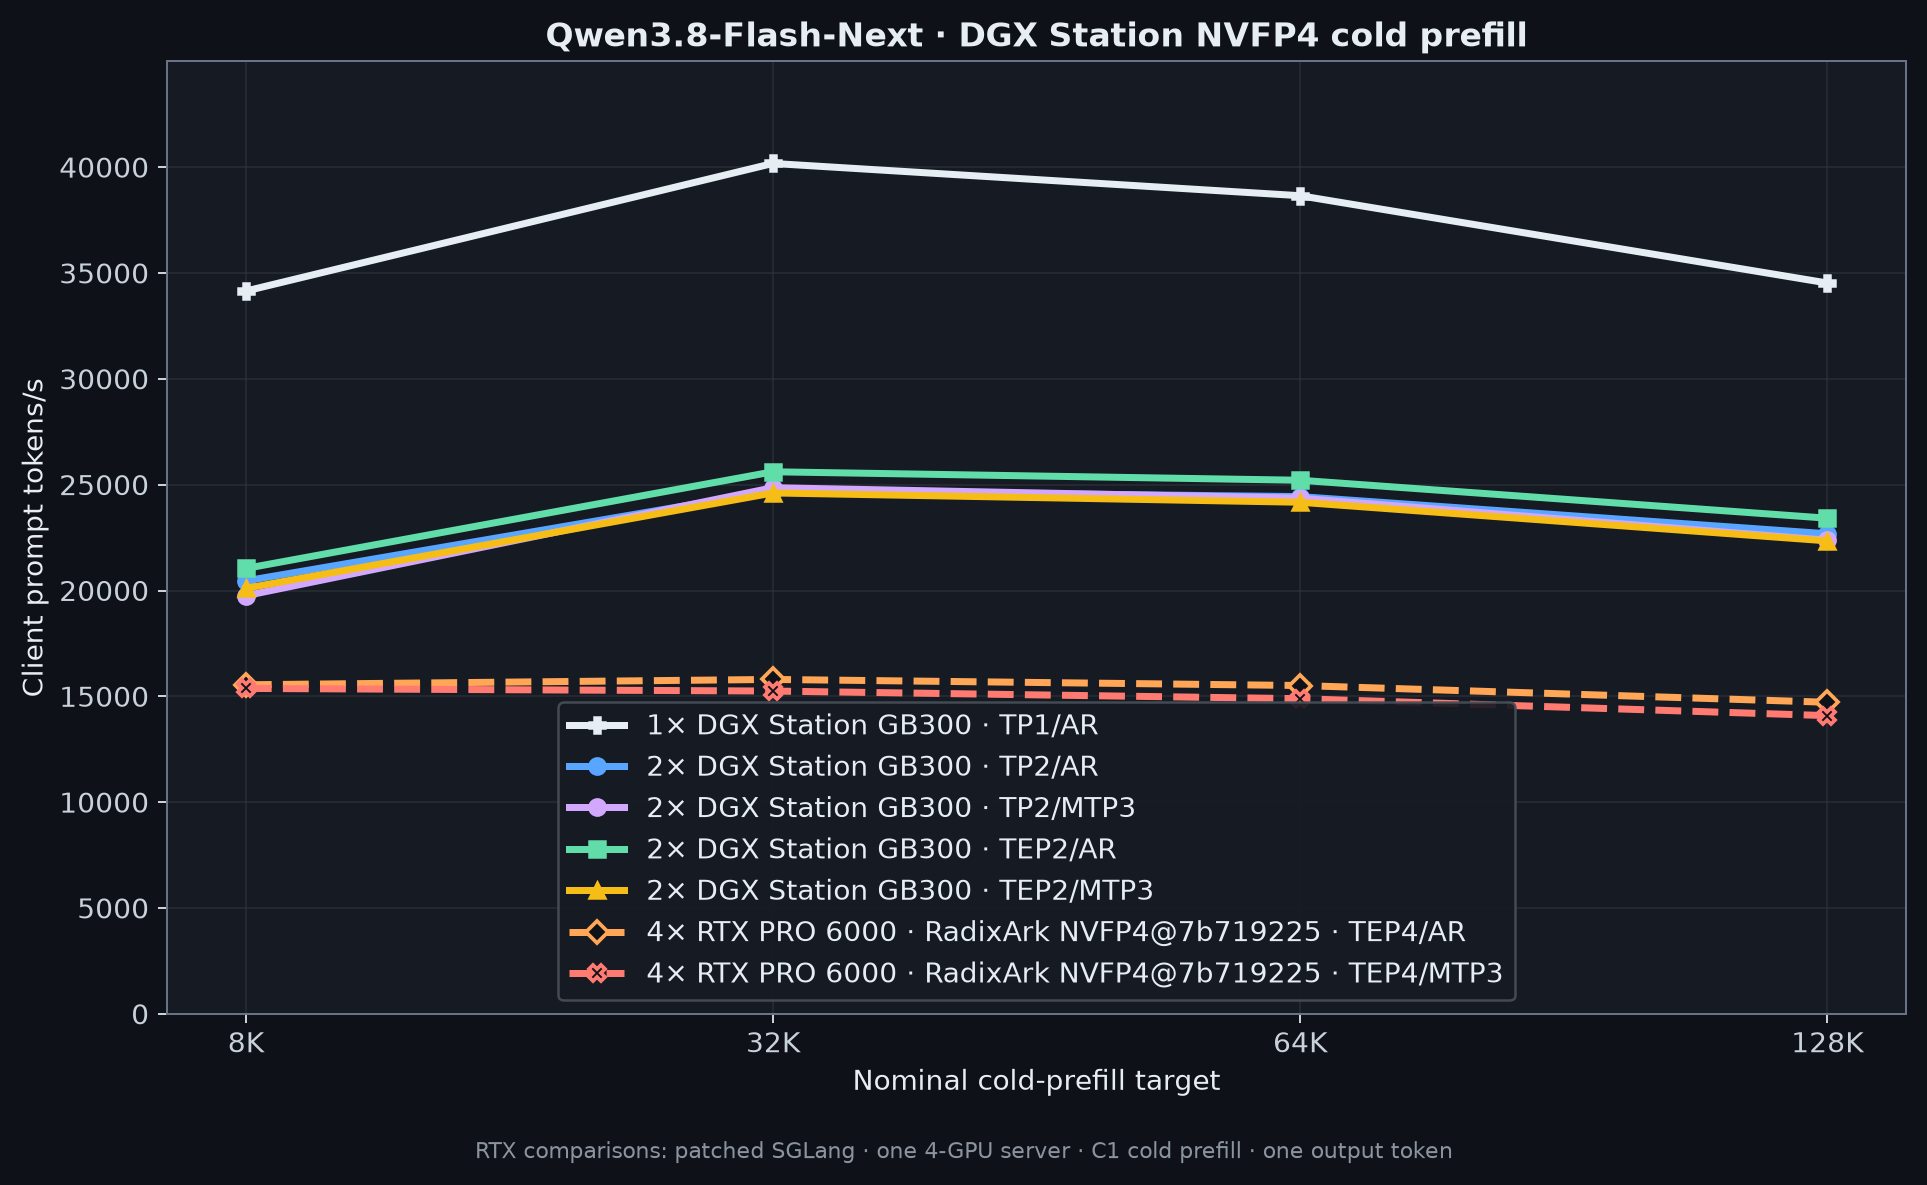
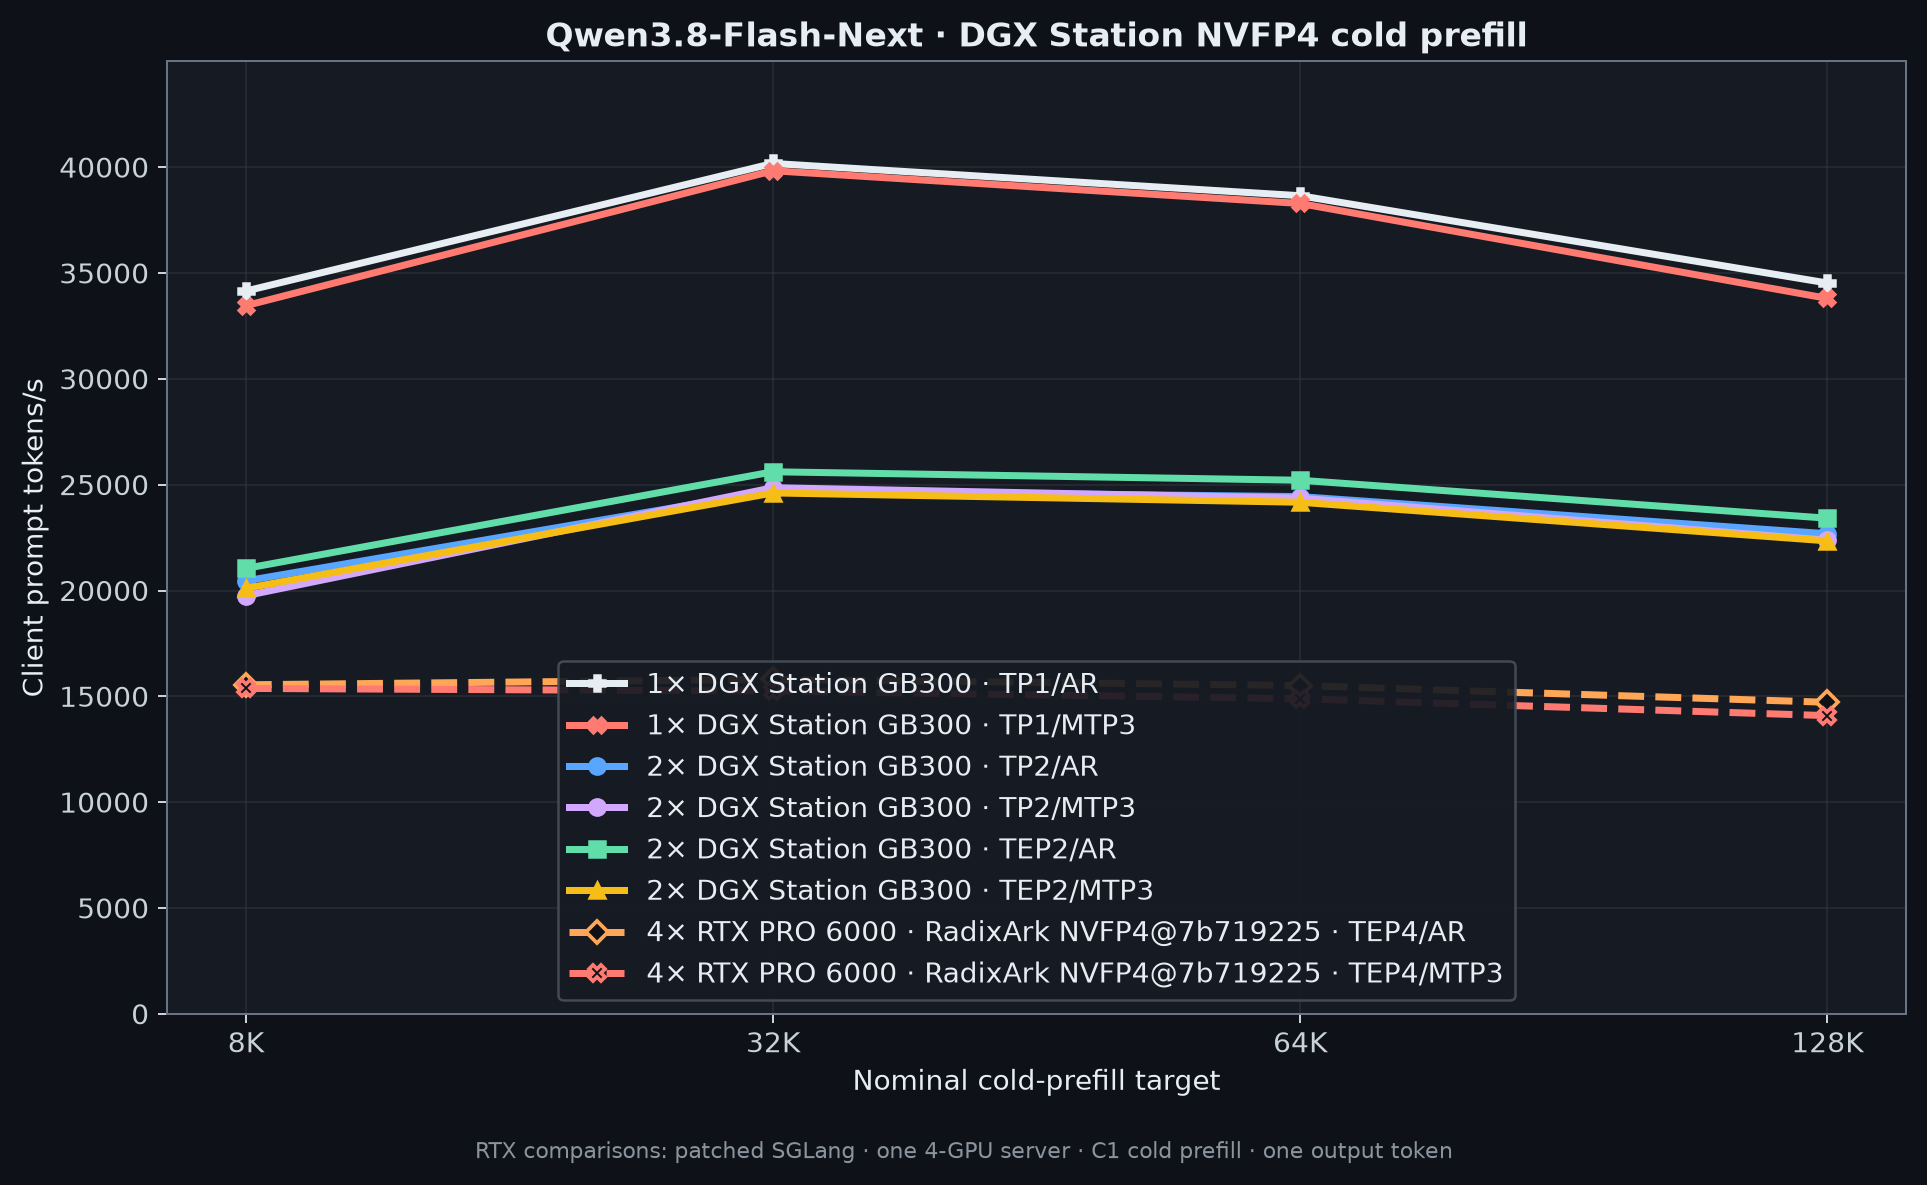
Add Qwen TP1 MTP3 headline results

diff --git a/qwen3.8-flash-next/tests/test_section_contract.py b/qwen3.8-flash-next/tests/test_section_contract.py
@@ -35,6 +35,11 @@ DGX_PROFILE_SPECS = {
         {"DGX Station"},
         0,
     ),
+    "NVFP4 TP1/MTP3": (
+        {"single_node_tp1_ep_disabled"},
+        {"DGX Station"},
+        3,
+    ),
     "NVFP4 TP2/MTP0": (
         {"cross_node_tp2_ep_disabled"},
         {"DGX Station pair"},
@@ -262,6 +267,7 @@ class SectionContractTests(unittest.TestCase):
             tuple(renderer.DGX_HEADLINE_SERIES),
             (
                 "NVFP4 TP1/MTP0",
+                "NVFP4 TP1/MTP3",
                 "NVFP4 TP2/MTP0",
                 "NVFP4 TP2/MTP3",
                 "NVFP4 TEP2/MTP0",
@@ -413,16 +419,16 @@ class SectionContractTests(unittest.TestCase):
             for row in prefill_rows
         }
         self.assertIn("local-inference-lab/Qwen3.8-Flash-Next-NVFP4-4p89", section)
-        self.assertIn("TP1/AR uses one Station", section)
-        self.assertIn("TP2 and\nTEP2 span both Stations", section)
-        self.assertIn("comparison points, not DGX Station", section)
+        self.assertIn("TP1/AR and TP1/MTP3 each use one\nStation", section)
+        self.assertIn("TP2 and TEP2 span both Stations", section)
+        self.assertIn("comparison points, not DGX\nStation", section)
         self.assertIn(
             "RadixArk/Qwen3.8-Flash-Next-NVFP4@"
             "7b719225242aacd3dbd3f9407468c2ee9a9d2594",
             section,
         )
         self.assertIn("one TEP4 server across four RTX PRO 6000", section)
-        self.assertIn("Fixed decode is 8,192 input + 1,024 output tokens", section)
+        self.assertIn("Fixed decode is 8,192 input + 1,024 output\ntokens", section)
         self.assertIn("temperature 0, shown from C1 through C64", section)
         headline = section.split("Exact checkpoint revisions", 1)[0]
         self.assertNotIn("source-sealed", headline.lower())
@@ -431,6 +437,7 @@ class SectionContractTests(unittest.TestCase):
         dgx_rows = csv_rows("dgx-overlays.csv")
         profile_labels = {
             "NVFP4 TP1/MTP0": "1× DGX Station · TP1/AR",
+            "NVFP4 TP1/MTP3": "1× DGX Station · TP1/MTP3",
             "NVFP4 TP2/MTP0": "2× DGX Stations · TP2/AR",
             "NVFP4 TP2/MTP3": "2× DGX Stations · TP2/MTP3",
             "NVFP4 TEP2/MTP0": "2× DGX Stations · TEP2/AR",
@@ -497,7 +504,7 @@ class SectionContractTests(unittest.TestCase):
         )
         self.assertIn("(qwen3.8-flash-next/)", overview_row)
         self.assertIn(
-            "1× TP1/AR: 202.1 tok/s C1, 4,090.4 C64, 38,653 tok/s 64K prefill",
+            "1× TP1/MTP3: 342.7 tok/s C1; TP1/AR: 4,090.4 C64, 38,653 tok/s 64K prefill",
             overview_row,
         )
         self.assertIn(
@@ -579,7 +586,7 @@ class SectionContractTests(unittest.TestCase):
         profiles = {row["profile"] for row in rows}
         self.assertTrue(profiles <= set(DGX_PROFILE_SPECS))
         if profiles == set(DGX_PROFILE_SPECS):
-            self.assertLessEqual(len(rows), 55)
+            self.assertEqual(len(rows), 66)
         decode_rows = [row for row in rows if row["metric"] == "decode"]
         prefill_rows = [row for row in rows if row["metric"] == "prefill"]
         decode_keys = {

diff --git a/qwen3.8-flash-next/tests/test_import_dgx_results.py b/qwen3.8-flash-next/tests/test_import_dgx_results.py
@@ -168,7 +168,7 @@ class ImportDgxResultsTests(unittest.TestCase):
             with self.assertRaisesRegex(ValueError, "benchmark client has not completed"):
                 IMPORTER.import_result(root, require_complete=True)
 
-    def test_complete_five_profile_import_has_55_rows(self) -> None:
+    def test_complete_six_profile_import_has_66_rows(self) -> None:
         with tempfile.TemporaryDirectory() as directory:
             parent = Path(directory)
             imported = {}
@@ -180,9 +180,9 @@ class ImportDgxResultsTests(unittest.TestCase):
                 imported[imported_profile] = rows
         merged = IMPORTER.merge_rows([], imported)
         self.assertEqual(set(imported), set(IMPORTER.PROFILE_SPECS))
-        self.assertEqual(len(merged), 55)
-        self.assertEqual(len([row for row in merged if row["metric"] == "decode"]), 35)
-        self.assertEqual(len([row for row in merged if row["metric"] == "prefill"]), 20)
+        self.assertEqual(len(merged), 66)
+        self.assertEqual(len([row for row in merged if row["metric"] == "decode"]), 42)
+        self.assertEqual(len([row for row in merged if row["metric"] == "prefill"]), 24)
 
     def test_tp1_profile_is_labeled_as_one_station(self) -> None:
         with tempfile.TemporaryDirectory() as directory:
@@ -195,6 +195,14 @@ class ImportDgxResultsTests(unittest.TestCase):
             {"single_node_tp1_ep_disabled"},
         )
         self.assertEqual({row["notes"] for row in rows}, {"one_engine_on_one_station"})
+
+    def test_tp1_mtp3_profile_is_labeled_as_one_station(self) -> None:
+        with tempfile.TemporaryDirectory() as directory:
+            root = make_result(Path(directory), "tp1-mtp3")
+            profile, rows = IMPORTER.import_result(root, require_complete=True)
+        self.assertEqual(profile, "tp1-mtp3")
+        self.assertEqual({row["platform_label"] for row in rows}, {"DGX Station"})
+        self.assertEqual({row["mtp_tokens"] for row in rows}, {"3"})
 
     def test_first_new_import_drops_the_superseded_checkpoint(self) -> None:
         with tempfile.TemporaryDirectory() as directory:

diff --git a/qwen3.8-flash-next/charts/render-charts.py b/qwen3.8-flash-next/charts/render-charts.py
@@ -44,6 +44,12 @@ DGX_HEADLINE_SERIES = {
         "-",
         "P",
     ),
+    "NVFP4 TP1/MTP3": (
+        "1× DGX Station GB300 · TP1/MTP3",
+        "#FF7B72",
+        "-",
+        "X",
+    ),
     "NVFP4 TP2/MTP0": (
         "2× DGX Station GB300 · TP2/AR",
         "#58A6FF",
@@ -71,6 +77,7 @@ DGX_HEADLINE_SERIES = {
 }
 DGX_HEADLINE_PLATFORMS = {
     "NVFP4 TP1/MTP0": "DGX Station",
+    "NVFP4 TP1/MTP3": "DGX Station",
     "NVFP4 TP2/MTP0": "DGX Station pair",
     "NVFP4 TP2/MTP3": "DGX Station pair",
     "NVFP4 TEP2/MTP0": "DGX Station pair",

diff --git a/qwen3.8-flash-next/data/import-dgx-results.py b/qwen3.8-flash-next/data/import-dgx-results.py
@@ -89,6 +89,16 @@ PROFILE_SPECS = {
         "DGX Station",
         "one_engine_on_one_station",
     ),
+    "tp1-mtp3": ProfileSpec(
+        "NVFP4 TP1/MTP3",
+        "single_node_tp1_ep_disabled",
+        3,
+        1,
+        1,
+        1,
+        "DGX Station",
+        "one_engine_on_one_station",
+    ),
     "tp2-mtp0": ProfileSpec(
         "NVFP4 TP2/MTP0",
         "cross_node_tp2_ep_disabled",

diff --git a/qwen3.8-flash-next/README.md b/qwen3.8-flash-next/README.md
@@ -7,12 +7,13 @@ is the Flash-Next MoE model, not Qwen3.8-27B.
 
 The DGX headline uses
 [`local-inference-lab/Qwen3.8-Flash-Next-NVFP4-4p89`](https://huggingface.co/local-inference-lab/Qwen3.8-Flash-Next-NVFP4-4p89)
-on SGLang. Each row is one serving engine. TP1/AR uses one Station; TP2 and
-TEP2 span both Stations, with TEP2 adding expert parallelism.
+on SGLang. Each row is one serving engine. TP1/AR and TP1/MTP3 each use one
+Station. TP2 and TEP2 span both Stations, with TEP2 adding expert parallelism.
 
 | DGX configuration | C1 decode | C16 decode | C64 decode | 64K cold prefill |
 | --- | ---: | ---: | ---: | ---: |
 | 1× DGX Station · TP1/AR | 202.1 tok/s | **1,883.9 tok/s** | **4,090.4 tok/s** | **38,653 tok/s** |
+| 1× DGX Station · TP1/MTP3 | **342.7 tok/s** | 1,733.2 tok/s | 2,590.4 tok/s | 38,286 tok/s |
 | 2× DGX Stations · TP2/AR | 142.4 tok/s | 1,473.0 tok/s | 3,055.9 tok/s | 24,437 tok/s |
 | 2× DGX Stations · TP2/MTP3 | 243.5 tok/s | 1,258.9 tok/s | 2,342.4 tok/s | 24,363 tok/s |
 | 2× DGX Stations · TEP2/AR | 142.3 tok/s | 1,502.3 tok/s | 3,164.1 tok/s | 25,210 tok/s |
@@ -27,10 +28,10 @@ TEP2 span both Stations, with TEP2 adding expert parallelism.
 The dashed orange and red lines use
 `RadixArk/Qwen3.8-Flash-Next-NVFP4@7b719225242aacd3dbd3f9407468c2ee9a9d2594`
 on patched SGLang: one TEP4 server across four RTX PRO 6000 Blackwell GPUs.
-Orange is AR; red is MTP3. Fixed decode is 8,192 input + 1,024 output tokens at
-temperature 0, shown from C1 through C64. Cold prefill is C1 at 8K, 32K, 64K,
-and 128K with one output token. These are comparison points, not DGX Station
-headlines.
+Orange is AR; dashed red is MTP3. Fixed decode is 8,192 input + 1,024 output
+tokens at temperature 0, shown from C1 through C64. Cold prefill is C1 at 8K,
+32K, 64K, and 128K with one output token. These are comparison points, not DGX
+Station headlines.
 
 Exact checkpoint revisions, launch settings, workload, and per-cell values are
 in the [recipe](recipes/) and [`data/`](data/).

diff --git a/README.md b/README.md
@@ -19,7 +19,7 @@ performance tuning, runtime quirks, benchmarking practice, and safe recovery.
 
 | Experiment | Checkpoint / precision | Headline result |
 | --- | --- | --- |
-| [Qwen3.8-Flash-Next](qwen3.8-flash-next/) | local-inference-lab NVFP4-4p89/SGLang on 1× or 2× DGX Station GB300; 4× RTX PRO 6000 comparison | 1× TP1/AR: 202.1 tok/s C1, 4,090.4 C64, 38,653 tok/s 64K prefill |
+| [Qwen3.8-Flash-Next](qwen3.8-flash-next/) | local-inference-lab NVFP4-4p89/SGLang on 1× or 2× DGX Station GB300; 4× RTX PRO 6000 comparison | 1× TP1/MTP3: 342.7 tok/s C1; TP1/AR: 4,090.4 C64, 38,653 tok/s 64K prefill |
 | [Qwen3.8-27B](qwen3.8-27b/) | BF16 plus unofficial Huginn FP8 and NVFP4A16 targets; BF16 KV/Mamba state | DFlash2: 265.8 tok/s C1; MTP: 6,348.8 C128. Quant AR C128: FP8 5,494.4 (+8.7% vs BF16), NVFP4A16 3,607.4 (−28.6%) |
 | [Qwen2.5-72B LoRA FSDP training](qwen72b-lora-fsdp/) | BF16 LoRA SFT; FSDP2 over 2× GB300; packed UltraChat 10K at 2,048 tokens | 4,453.19 tokens/s; 29.433 s/optimizer step; global batch 131,072 tokens |
 | [RF-DETR Large training](rfdetr-training/) | BF16 fine-tuning on the 1.17M-image MLPerf OpenImages subset; 2× GB300 DDP | Optimized global-batch-128 epoch: 220.45 images/s and 1:46:52 end to end (2.44× faster than control) |

diff --git a/qwen3.8-flash-next/charts/README.md b/qwen3.8-flash-next/charts/README.md
@@ -1,15 +1,15 @@
 # Qwen3.8-Flash-Next charts
 
-- `dgx-nvfp4-decode.png` shows one-Station TP1/AR and two-Station TP2/TEP2
-  NVFP4 decode through C64, with separate 4× RTX PRO 6000 RadixArk NVFP4
-  TEP4/AR and TEP4/MTP3 comparisons.
+- `dgx-nvfp4-decode.png` shows one-Station TP1/AR and TP1/MTP3 plus
+  two-Station TP2/TEP2 NVFP4 decode through C64, with separate 4× RTX PRO
+  6000 RadixArk NVFP4 TEP4/AR and TEP4/MTP3 comparisons.
 - `dgx-nvfp4-prefill.png` shows the matching cold-prefill comparison.
 - `decode-throughput.png` shows the 4× RTX PRO 6000 reference decode matrix.
 - `cold-prefill-throughput.png` shows the workstation reference prefill matrix.
 - `tep4-{ar,mtp3}-{decode,prefill}-comparison.png` compares the workstation's
   official FP8/vLLM and Radix NVFP4/SGLang lanes.
 
-The TP1 curve is one engine on one Station. Each TP2/TEP2 curve is one engine
+Each TP1 curve is one engine on one Station. Each TP2/TEP2 curve is one engine
 across both Stations. Each dashed workstation curve is one TEP4 server across
 four GPUs in the labeled decode mode. Detailed run and source notes are in
 [`../recipes/`](../recipes/).

diff --git a/qwen3.8-flash-next/recipes/README.md b/qwen3.8-flash-next/recipes/README.md
@@ -39,9 +39,13 @@ Raw result roots are under
 C1–C64 publication pass; it also requires the launcher's completed cleanup and
 postflight marker.
 
-TP1/AR run `qwen38-4p89-tp1-mtp0-gemini1-v1` used one engine on `gemini1` and
-completed all measurements, cleanup, and postflight checks. It is plotted once;
-no second-machine curve is inferred or summed.
+TP1/AR run `qwen38-4p89-tp1-mtp0-gemini1-v1` used one engine on `gemini1`.
+TP1/MTP3 run `qwen38-4p89-tp1-mtp3-gemini2-v2` used one engine on `gemini2`.
+Both completed all measurements, cleanup, and postflight checks. Each is
+plotted once; no second-machine curve is inferred or summed. The TP1/MTP3
+runtime limited resident requests to 47 because of Mamba-state capacity. Its
+C64 cell is the measured offered-load result: 2,590.4 tok/s at 45.1 effective
+concurrency and 0.911 queue fraction.
 
 TEP2/AR run `qwen38-4p89-tep2-mtp0-v1` completed its measurements and exact
 container cleanup. Its first local postflight gate overlapped an `nvidia-smi`

diff --git a/qwen3.8-flash-next/data/README.md b/qwen3.8-flash-next/data/README.md
@@ -39,6 +39,7 @@ Final 4p89 import:
 ```bash
 python3 data/import-dgx-results.py \
   /home/catid/frontier-bench/results/qwen38-4p89-sglang/qwen38-4p89-tp1-mtp0-gemini1-v1 \
+  /home/catid/frontier-bench/results/qwen38-4p89-sglang/qwen38-4p89-tp1-mtp3-gemini2-v2 \
   /home/catid/frontier-bench/results/qwen38-4p89-sglang/qwen38-4p89-tp2-mtp0-v11 \
   /home/catid/frontier-bench/results/qwen38-4p89-sglang/qwen38-4p89-tp2-mtp3-v1 \
   /home/catid/frontier-bench/results/qwen38-4p89-sglang/qwen38-4p89-tep2-mtp0-v1 \
